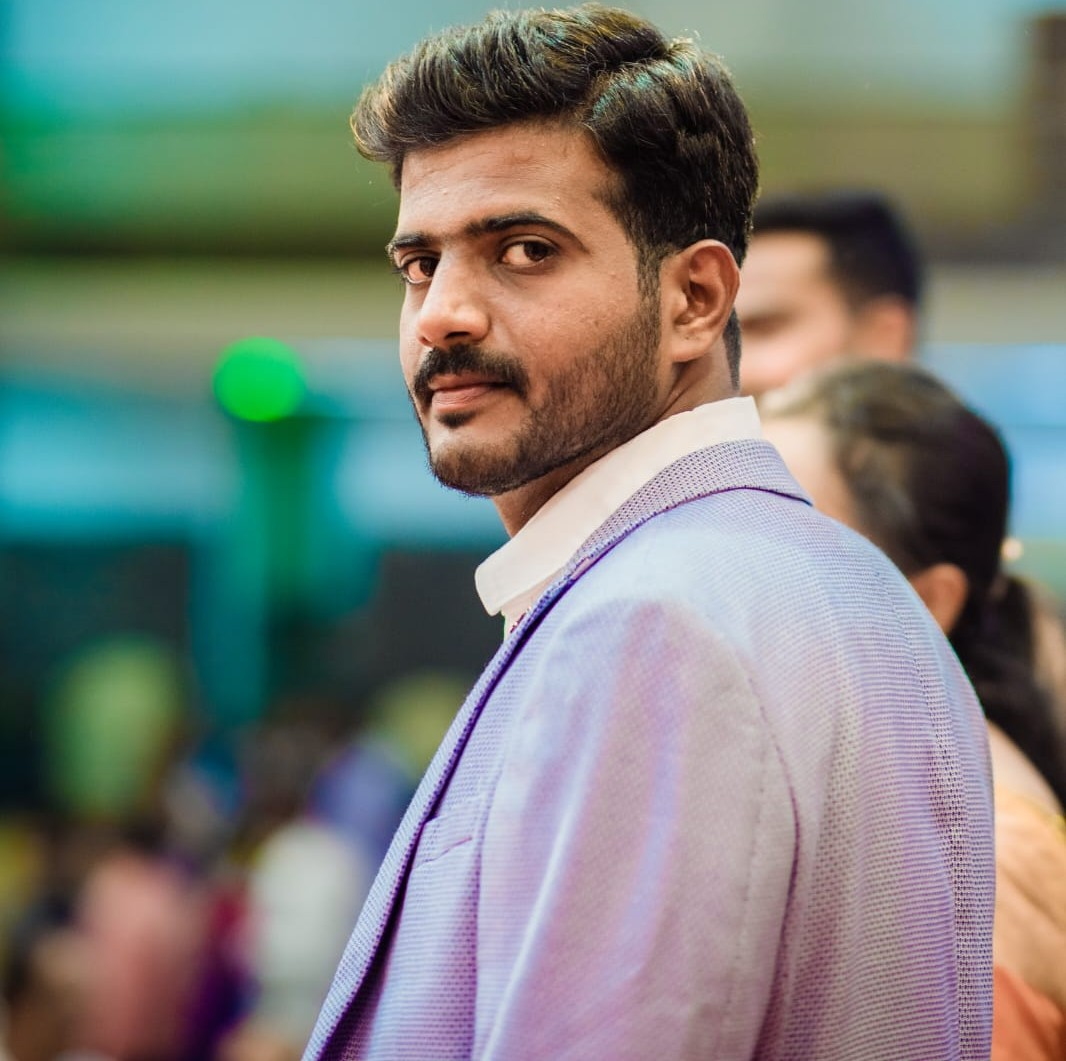
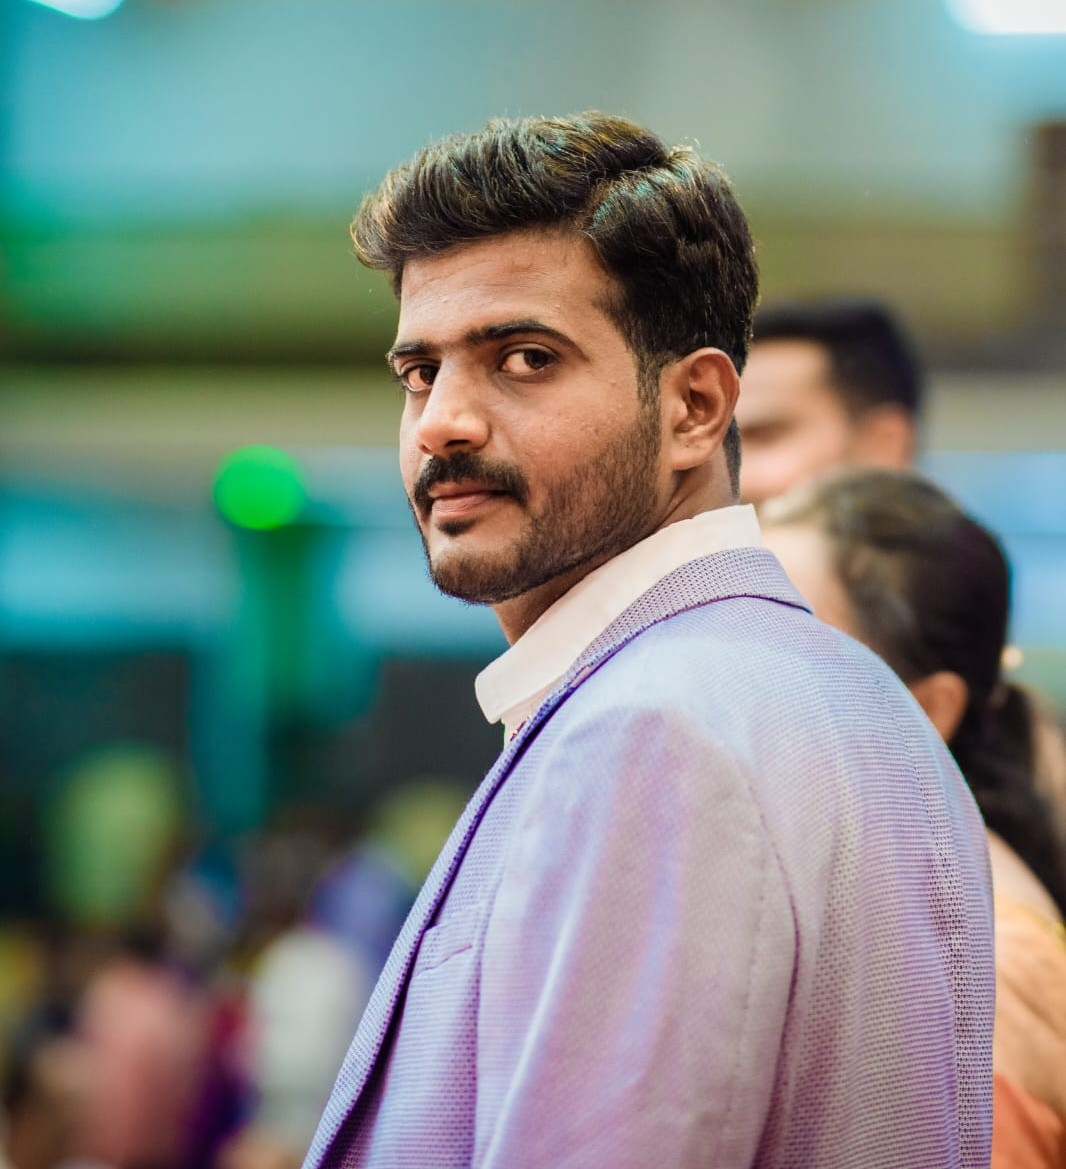
Fix team photo cropping: replace cropped photos with originals and adjust positioning CSS

diff --git a/frontend/src/components/Team.jsx b/frontend/src/components/Team.jsx
@@ -9,7 +9,7 @@ const team = [
     experienceLabel: "Years in Civil Engineering",
     bio: "Sachin G S is the founder of Shree Veerabhadreshwara Constructions. A skilled civil engineer based in Nyamathi, Sachin G S leads all major construction projects at SVB Constructions with over 12 years of experience.",
     photo: "/assets/team-sachin.jpeg",
-    photoPosition: "object-center object-top",
+    photoPosition: "center 20%",
     email: "[email redacted]",
     instagram: "https://www.instagram.com/sachings_sachin?igsh=aG8ycjE3d21wcG4x",
     whatsapp: `https://wa.me/919035911632?text=${encodeURIComponent("Hi Sachin, I'm interested in starting a construction project with SVB Constructions. Can we connect?")}`,
@@ -22,7 +22,7 @@ const team = [
     experienceLabel: "Years in Project Management",
     bio: "Sanjay K S serves as Director at SVB Constructions, Nyamathi. With deep expertise in civil engineering and project management, Sanjay K S oversees quality standards across all projects in Nyamathi, Honnali and Shivamogga.",
     photo: "/assets/team-sanjay.jpeg",
-    photoPosition: "object-center",
+    photoPosition: "top center",
     email: "[email redacted]",
     instagram: "https://www.instagram.com/sanjukssanjay?igsh=MTltanJiYWY3cnk0eA==",
     whatsapp: `https://wa.me/916361638075?text=${encodeURIComponent("Hi Sanjay, I'm interested in discussing a construction project with SVB Constructions. Can we connect?")}`,
@@ -35,7 +35,7 @@ const team = [
     experienceLabel: "Years in Structural Design",
     bio: "Panchappa A G is the senior civil engineer at Shree Veerabhadreshwara Constructions, with 25+ years of structural design expertise across Nyamathi, Karnataka. Panchappa A G oversees technical quality across all SVB Constructions projects.",
     photo: "/assets/team-panchappa.jpeg",
-    photoPosition: "object-top object-center",
+    photoPosition: "top center",
     email: "[email redacted]",
     instagram: "#",
     whatsapp: `https://wa.me/919035911632?text=${encodeURIComponent("Hi, I'd like to discuss a construction project with SVB Constructions. Can we connect?")}`,
@@ -115,11 +115,12 @@ export default function Team() {
                 </div>
 
                 {/* ── Professional photo ── */}
-                <div className="relative bg-[#F1F5F9] overflow-hidden" style={{ height: "300px" }}>
+                <div className="relative bg-[#F1F5F9] overflow-hidden" style={{ height: "380px" }}>
                   <img
                     src={member.photo}
                     alt={`${member.name} - ${member.designation}, Shree Veerabhadreshwara Constructions`}
-                    className={`w-full h-full object-cover ${member.photoPosition} transition-transform duration-500 group-hover:scale-105`}
+                    className="w-full h-full object-cover transition-transform duration-500 group-hover:scale-105"
+                    style={{ objectPosition: member.photoPosition }}
                     loading="lazy"
                   />
                   {/* Subtle bottom gradient for name area */}